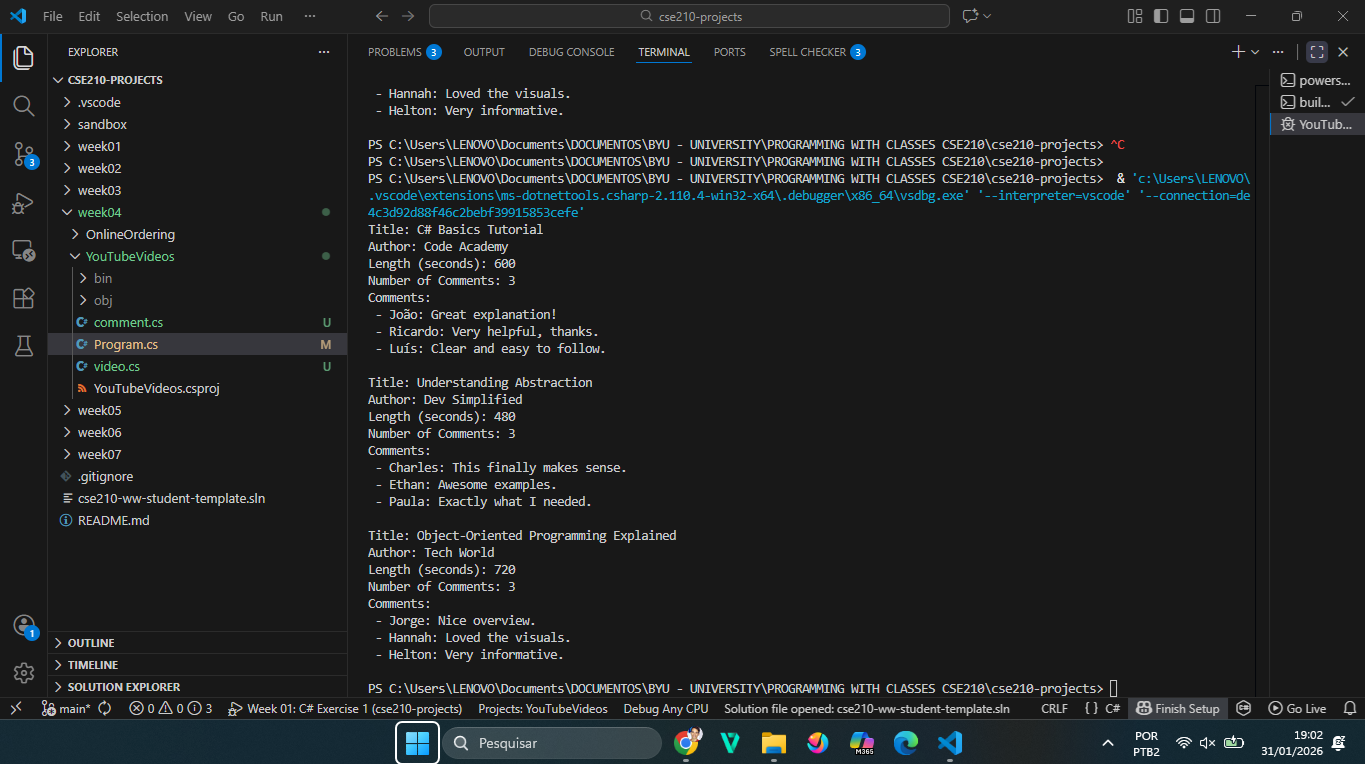
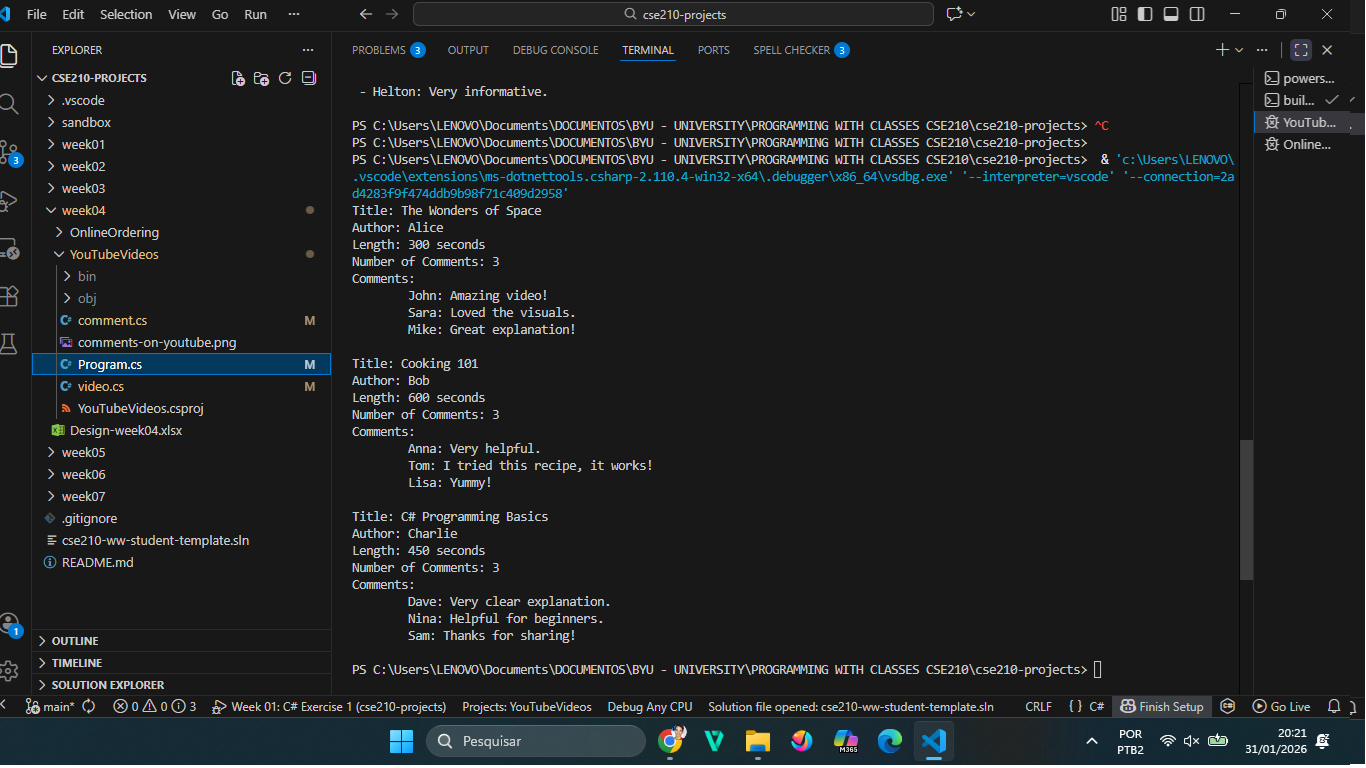
actual

diff --git a/week04/YouTubeVideos/Program.cs b/week04/YouTubeVideos/Program.cs
@@ -5,40 +5,38 @@ class Program
 {
     static void Main(string[] args)
     {
-        List<Video> videos = new List<Video>();
+        Video video1 = new Video("The Wonders of Space", "Alice", 300);
+        Video video2 = new Video("Cooking 101", "Bob", 600);
+        Video video3 = new Video("C# Programming Basics", "Charlie", 450);
 
-        Video video1 = new Video("C# Basics Tutorial", "Code Academy", 600);
-        video1.AddComment(new Comment("João", "Great explanation!"));
-        video1.AddComment(new Comment("Ricardo", "Very helpful, thanks."));
-        video1.AddComment(new Comment("Luís", "Clear and easy to follow."));
-        videos.Add(video1);
+        video1.AddComment(new Comment("João", "Amazing video!"));
+        video1.AddComment(new Comment("Ricardo", "Loved the visuals."));
+        video1.AddComment(new Comment("Luís", "Great explanation!"));
 
-        Video video2 = new Video("Understanding Abstraction", "Dev Simplified", 480);
-        video2.AddComment(new Comment("Charles", "This finally makes sense."));
-        video2.AddComment(new Comment("Ethan", "Awesome examples."));
-        video2.AddComment(new Comment("Paula", "Exactly what I needed."));
-        videos.Add(video2);
+        video2.AddComment(new Comment("Charles", "Very helpful."));
+        video2.AddComment(new Comment("Ethan", "I tried this recipe, it works!"));
+        video2.AddComment(new Comment("Paula", "Yummy!"));
 
-        Video video3 = new Video("Object-Oriented Programming Explained", "Tech World", 720);
-        video3.AddComment(new Comment("Jorge", "Nice overview."));
-        video3.AddComment(new Comment("Hannah", "Loved the visuals."));
-        video3.AddComment(new Comment("Helton", "Very informative."));
-        videos.Add(video3);
+        video3.AddComment(new Comment("Jorge", "Very clear explanation."));
+        video3.AddComment(new Comment("Hannah", "Helpful for beginners."));
+        video3.AddComment(new Comment("Helton", "Thanks for sharing!"));
 
-        foreach (Video video in videos)
+        List<Video> videos = new List<Video> { video1, video2, video3 };
+
+        foreach (var video in videos)
         {
-            Console.WriteLine("Title: " + video.GetTitle());
-            Console.WriteLine("Author: " + video.GetAuthor());
-            Console.WriteLine("Length (seconds): " + video.GetLength());
-            Console.WriteLine("Number of Comments: " + video.GetNumberOfComments());
+            Console.WriteLine($"Title: {video.Title}");
+            Console.WriteLine($"Author: {video.Author}");
+            Console.WriteLine($"Length: {video.Length} seconds");
+            Console.WriteLine($"Number of Comments: {video.GetNumberOfComments()}");
             Console.WriteLine("Comments:");
 
-            foreach (Comment comment in video.GetComments())
+            foreach (var comment in video.Comments)
             {
-                Console.WriteLine($" - {comment.GetCommenterName()}: {comment.GetCommentText()}");
+                Console.WriteLine($"\t{comment.Name}: {comment.Text}");
             }
 
-            Console.WriteLine();
+            Console.WriteLine(); 
         }
     }
 }

diff --git a/week04/YouTubeVideos/video.cs b/week04/YouTubeVideos/video.cs
@@ -1,48 +1,27 @@
-using System;
 using System.Collections.Generic;
 
 public class Video
 {
-    private string _title;
-    private string _author;
-    private int _lengthInSeconds;
-    private List<Comment> _comments;
+    public string Title { get; set; }
+    public string Author { get; set; }
+    public int Length { get; set; } // in seconds
+    public List<Comment> Comments { get; set; }
 
-    public Video(string title, string author, int lengthInSeconds)
+    public Video(string title, string author, int length)
     {
-        _title = title;
-        _author = author;
-        _lengthInSeconds = lengthInSeconds;
-        _comments = new List<Comment>();
+        Title = title;
+        Author = author;
+        Length = length;
+        Comments = new List<Comment>();
     }
 
     public void AddComment(Comment comment)
     {
-        _comments.Add(comment);
+        Comments.Add(comment);
     }
 
     public int GetNumberOfComments()
     {
-        return _comments.Count;
-    }
-
-    public string GetTitle()
-    {
-        return _title;
-    }
-
-    public string GetAuthor()
-    {
-        return _author;
-    }
-
-    public int GetLength()
-    {
-        return _lengthInSeconds;
-    }
-
-    public List<Comment> GetComments()
-    {
-        return _comments;
+        return Comments.Count;
     }
 }

diff --git a/week04/YouTubeVideos/comment.cs b/week04/YouTubeVideos/comment.cs
@@ -1,21 +1,11 @@
 public class Comment
 {
-    private string _commenterName;
-    private string _commentText;
+    public string Name { get; set; }
+    public string Text { get; set; }
 
-    public Comment(string commenterName, string commentText)
+    public Comment(string name, string text)
     {
-        _commenterName = commenterName;
-        _commentText = commentText;
-    }
-
-    public string GetCommenterName()
-    {
-        return _commenterName;
-    }
-
-    public string GetCommentText()
-    {
-        return _commentText;
+        Name = name;
+        Text = text;
     }
 }
